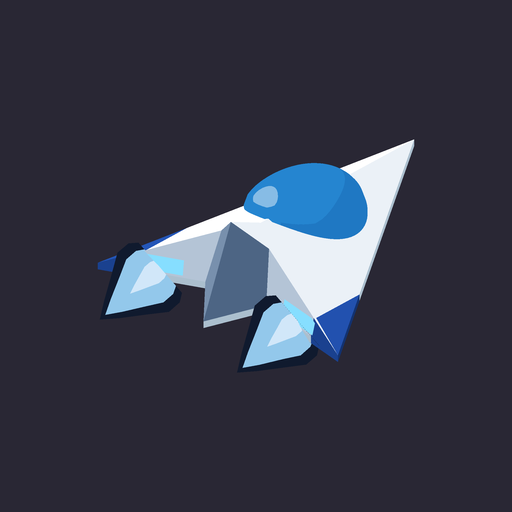
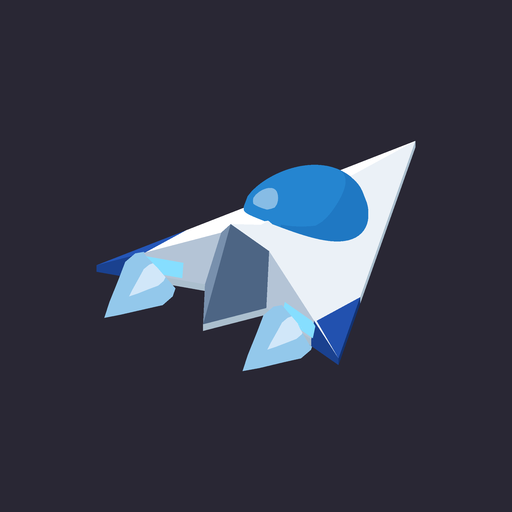
Draw Ada's jet halo under the hull and on the flight sprite only
Mark the halo layer underHull, so it draws before the hull and its keyline and
covers no hull, skirt or tail pixel, and maxDisplay 42, so it draws only on the
42 px flight sprite. The app icon drops the halo; the start screen ship, jump
poses and other large views follow the same flags. The contact sheets compose
the halo under the hull. The outer flame, core and restored lengths are
unchanged.

diff --git a/art/tools/ship-contact-sheet.ts b/art/tools/ship-contact-sheet.ts
@@ -8,6 +8,7 @@ import { filled, type RgbaImage, writePng } from "./paint.ts";
 import { JET_PROFILE, LIGHT_FIELD_JET_LEVELS, jetLayers } from "./ship-jet-layers.ts";
 import {
   jetLength,
+  layersAt,
   plumeColor,
   type PlumeLayer,
   type PlumeMouth,
@@ -173,7 +174,14 @@ class Cell {
 
 type Exhaust = { direction: "forward" | "reverse"; f: number; level: number };
 
-function plumes(jets: Jets, index: number, { f, level }: Exhaust, light: boolean): Fill[] {
+// The layers that draw on the 42 px flight sprite, those under the hull or the rest.
+function plumes(
+  jets: Jets,
+  index: number,
+  { f, level }: Exhaust,
+  light: boolean,
+  underHull: boolean,
+): Fill[] {
   const layers = light
     ? jetLayers(LIGHT_FIELD_JET_LEVELS[level - 1]!).map((layer, i) => ({
         ...jets.engineLevels[level - 1]!.layers[i]!,
@@ -181,16 +189,17 @@ function plumes(jets: Jets, index: number, { f, level }: Exhaust, light: boolean
       }))
     : jets.engineLevels[level - 1]!.layers;
   const length = jetLength(jets.length, f);
+  const drawn = layersAt(layers, 42).filter((layer) => Boolean(layer.underHull) === underHull);
   return jets.headings[index]!.mouths.flatMap((mouth) =>
-    layers.map((layer) => ({
+    drawn.map((layer) => ({
       color: plumeColor(layer.colors, f),
       loops: [plumePolygon(jets.profile ?? JET_PROFILE, mouth, layer, length) as Xy[]],
     })),
   );
 }
 
-// One sprite as the game composes it: reverse plumes under the hull, forward plumes over it
-// with the nearer hull restored, and the keyline round the hull only.
+// One sprite as the game composes it: reverse plumes and every halo under the hull, forward
+// flames over it with the nearer hull restored, and the keyline round the hull only.
 function sprite(
   size: number,
   scale: number,
@@ -206,11 +215,16 @@ function sprite(
     const mask = cell.mask(fill.loops);
     for (let i = 0; i < mask.length; i++) if (mask[i]) union[i] = 1;
   }
-  if (exhaust?.direction === "reverse") cell.fills(plumes(reverse, index, exhaust, field.light));
+  if (exhaust?.direction === "reverse") {
+    for (const under of [true, false])
+      cell.fills(plumes(reverse, index, exhaust, field.light, under));
+  }
+  if (exhaust?.direction === "forward")
+    cell.fills(plumes(forward, index, exhaust, field.light, true));
   cell.paint(field.keyline, cell.grown(union, KEYLINE));
   cell.fills(body);
   if (exhaust?.direction === "forward") {
-    cell.fills(plumes(forward, index, exhaust, field.light));
+    cell.fills(plumes(forward, index, exhaust, field.light, false));
     const nearer = cell.mask(
       forward.headings[index]!.mouths.flatMap((mouth) => mouth.occluders ?? []),
     );

diff --git a/art/tools/ship-check.ts b/art/tools/ship-check.ts
@@ -44,7 +44,13 @@ import {
 } from "./ship-model.ts";
 import { svgPaths } from "./ship-paths.ts";
 import { WARP_FRAME, WARP_HEADING, WARP_POSES } from "./ship-poses.ts";
-import { jetLength, plumePolygon, type PlumeMouth } from "./ship-plume.ts";
+import {
+  jetLength,
+  layersAt,
+  plumePolygon,
+  type PlumeLayer,
+  type PlumeMouth,
+} from "./ship-plume.ts";
 import { paintShip } from "./ship-raster.ts";
 
 const assets = new URL("../../public/art/", import.meta.url);
@@ -349,6 +355,26 @@ test("forward plumes root at the mouth centres with three layers and the hull re
   }
   // Head on, the hull hides both plume roots.
   assert(jets.headings[8]!.mouths.every((mouth) => mouth.occluders!.length > 0));
+});
+
+test("only the halo draws under the hull and on the 42 px flight sprite alone", () => {
+  for (const file of ["ship-jets.json", "ship-retro-jets.json"]) {
+    const jets = JSON.parse(readFileSync(new URL(file, assets), "utf8")) as {
+      engineLevels: { layers: (PlumeLayer & { name: string })[] }[];
+    };
+    for (const { layers } of jets.engineLevels) {
+      for (const layer of layers) {
+        const halo = layer.name === "halo";
+        assert.equal(layer.underHull, halo ? true : undefined, `${file} ${layer.name}`);
+        assert.equal(layer.maxDisplay, halo ? DISPLAY : undefined, `${file} ${layer.name}`);
+      }
+      assert.deepEqual(
+        layersAt(layers, 280).map(({ name }) => name),
+        ["outer", "core"],
+      );
+      assert.equal(layersAt(layers, DISPLAY).length, 3);
+    }
+  }
 });
 
 // Whether a point lies in a simple polygon, by crossings to its right.

diff --git a/art/tools/app-icon.ts b/art/tools/app-icon.ts
@@ -5,7 +5,7 @@ import { filled, fillPolygon, over, resize, rgba, writePng, type Xy } from "./pa
 import { SPACE_BG } from "./palette.ts";
 import { JET_LENGTH, JET_LEVELS, JET_PROFILE, jetLayers, plumeReach } from "./ship-jet-layers.ts";
 import { classic, drawn, forwardJetMouths, FRAME } from "./ship-model.ts";
-import { jetLength, plumeColor, plumePolygon } from "./ship-plume.ts";
+import { jetLength, layersAt, plumeColor, plumePolygon } from "./ship-plume.ts";
 import { paintShip } from "./ship-raster.ts";
 
 const output = fileURLToPath(new URL("../../public/art/app-icon/", import.meta.url));
@@ -20,8 +20,9 @@ const SAFE_ZONE = 0.8;
 const REGULAR_RADIUS = SIZE * 0.48;
 const background = rgba(`#${SPACE_BG}`);
 const hull = drawn(FRAME / 2, classic.paint, { yaw: HEADING });
-// Engine 1 plumes on the dark field, with the hull regions that draw over them.
-const layers = jetLayers(JET_LEVELS[0]);
+// Engine 1 plumes on the dark field, with the hull regions that draw over them. The icon is a
+// large still, so the flight sprite's halo does not draw.
+const layers = layersAt(jetLayers(JET_LEVELS[0]), SIZE);
 const mouths = forwardJetMouths(
   FRAME / 2,
   { yaw: HEADING },

diff --git a/art/tools/ship-plume.ts b/art/tools/ship-plume.ts
@@ -15,9 +15,19 @@ export interface PlumeLayer {
   readonly colors: readonly [string, string];
   /** Multiple of the jet length. */
   readonly length: number;
+  /** Largest logical display size of the ship frame at which the layer draws; absent is any. */
+  readonly maxDisplay?: number;
+  /** Draws under the hull, so the hull covers it everywhere; absent draws as the plume does. */
+  readonly underHull?: boolean;
   /** Half width in ship units. */
   readonly width: number;
 }
+
+/** The layers that draw on a ship frame shown `display` logical px wide. */
+export const layersAt = <L extends Pick<PlumeLayer, "maxDisplay">>(
+  layers: readonly L[],
+  display: number,
+): L[] => layers.filter(({ maxDisplay }) => maxDisplay === undefined || display <= maxDisplay);
 
 export interface JetCurve {
   readonly base: number;

diff --git a/art/tools/ship-jet-layers.ts b/art/tools/ship-jet-layers.ts
@@ -12,9 +12,11 @@ export const JET_PROFILE = [
   [1, 0],
 ] as const;
 // A dark halo the full mouth wide reaches 1.1 jet lengths and outlines the flame; the outer
-// flame reaches 1 and the core 0.55.
+// flame reaches 1 and the core 0.55. The halo draws under the hull (`underHull`), so it never
+// covers a hull or tail pixel, and only where the ship is drawn at most `maxDisplay` logical px
+// (the 42 px flight sprite), not on the start screen, app icon or jump poses.
 export const JET_SHAPE = {
-  halo: { width: 5.8, length: 1.1 },
+  halo: { width: 5.8, length: 1.1, underHull: true, maxDisplay: 42 },
   outer: { width: 4.2, length: 1 },
   core: { width: 1.6, length: 0.55 },
 } as const;

diff --git a/art/ship.md b/art/ship.md
@@ -20,7 +20,10 @@
 - Render 64 player headings from the one model and heading contract, with the
   documented frame, pivot and collision alignment. Enemy craft retain 16 headings.
 - Exhaust is a teardrop plume in three flat tones rooted on the engine mouths:
-  a dark halo round the flame and its core ([Speed jets](#speed-jets)). This
+  a dark halo round the flame and its core ([Speed jets](#speed-jets)). The
+  halo draws only on the 42 px flight sprite, never on the start screen, app
+  icon, jump poses or other large renders, and always under the hull, so it
+  covers no hull, skirt or tail pixel. This
   supersedes the three nested triangles and the rule that dropped the core at
   a display size of 42 px or less: the core draws at every size. Every title, warp, map and flight
   consumer draws the same plume from the same projected roots.
@@ -338,6 +341,13 @@ There are no animated jet frames.
   `anchor + axis * t * length * layer.length +- half * w * layer.width`.
 - `engineLevels` holds three layers per Engine level, drawn in order. Only the
   colours change with level; shape is the same on every paint.
+- The halo carries `underHull: true` and `maxDisplay: 42`. `underHull` draws
+  the layer before the hull and its keyline, forward and reverse, so the whole
+  hull silhouette (skirt and tail included) covers it. `maxDisplay` draws the
+  layer only where the ship frame's larger logical display side is 42 px or
+  less: the flight sprite, not the 280 px start screen ship, the warp poses or
+  the app icon. The outer flame and core carry neither and draw as before.
+  `layersAt` in [ship-plume.ts](tools/ship-plume.ts) applies `maxDisplay`.
 
 | Layer   | `width`, half width | `length` |
 | ------- | ------------------: | -------: |
@@ -379,8 +389,9 @@ There are no animated jet frames.
 - A plume takes its depth on the plane that holds its axis and faces the
   viewer. `occluders` are the outlines, in frame px, of every visible hull
   region in front of that plane inside the plume's widest and longest reach
-  (`plumeReach`: the halo's 5.8 by 33 units). Draw the complete plume above the hull,
-  then the hull again inside the occluders, taken from the loaded hull image.
+  (`plumeReach`: the halo's 5.8 by 33 units). Draw the halo under the hull,
+  then the hull, then the outer flame and core above it, then the hull again
+  inside the occluders, taken from the loaded hull image.
   The nearer plume draws over the tail and the farther one passes behind it.
 - `node art/tools/ship.ts --jets-only` updates only this file.
   [ship-plume.ts](tools/ship-plume.ts) is the pure polygon and colour helper

diff --git a/art/layout.md b/art/layout.md
@@ -1235,7 +1235,7 @@ at 844x390 the logical view is 779.08x360 and `x0` is 29.
 | Available rect   | 16 to 704, 16 to 344         | 43 to 677, 16 to 341          | 16 to 763.08, 16 to 344       | 43 to 736.08, 16 to 341       |
 | Field            | -120 to 840, -120 to 540     | -120 to 840, -120 to 540      | -91 to 869, -120 to 540       | -91 to 869, -120 to 540       |
 | Ship frame       | 238 to 518, -56 to 224       | 238 to 518, -56 to 224        | 267 to 547, -56 to 224        | 267 to 547, -56 to 224        |
-| Ship ink         | 225.7 to 484, 42 to 141      | 225.7 to 484, 42 to 141       | 254.7 to 513, 42 to 141       | 254.7 to 513, 42 to 141       |
+| Ship ink         | 232.8 to 484, 42 to 141      | 232.8 to 484, 42 to 141       | 261.8 to 513, 42 to 141       | 261.8 to 513, 42 to 141       |
 | Wordmark         | 225 to 495, 148 to 250       | 225 to 495, 148 to 250        | 254 to 524, 148 to 250        | 254 to 524, 148 to 250        |
 | Note line box    | Centre 360, 320 to 340       | Centre 360, 320 to 340        | Centre 389, 320 to 340        | Centre 389, 320 to 340        |
 | Menu             | 2.25 to 54.75, 2.25 to 54.75 | 33.25 to 85.75, 2.25 to 54.75 | 31.25 to 83.75, 2.25 to 54.75 | 33.25 to 85.75, 2.25 to 54.75 |
@@ -1245,7 +1245,7 @@ Clearances, smallest at 720x360 with insets:
 
 | Pair                              | Arithmetic      | Result                                    |
 | --------------------------------- | --------------- | ----------------------------------------- |
-| Menu to ship ink                  | `225.7 - 85.75` | 139.95                                    |
+| Menu to ship ink                  | `232.8 - 85.75` | 147.05                                    |
 | Menu to wordmark                  | `225 - 85.75`   | 139.25                                    |
 | Ship ink to Exit, shown           | `636.5 - 484`   | 152.5, beside the HUD row, never under it |
 | Wordmark to Exit, shown           | `636.5 - 495`   | 141.5 (170.5 at 844x390 with insets)      |

diff --git a/art/title-screen.md b/art/title-screen.md
@@ -42,13 +42,13 @@ The title ship is the in-game ship art, not a separate drawing.
 - Frame: the selected paint's `ship-52` (Classic `ship-52` before a paint is
   chosen), nose right with a slight climb, its 96 frame drawn 280 by 280.
 - Speed jets from `ship-jets.json` at `f = 0.8` (`title-screen.json`
-  `ship.jetSpeed`): a jet length of 21.36 ship units, the halo 23.5,
-  all three plume layers at the frame's scale (280 / 96), composed with the hull as
-  in flight. The lower plume draws over the tail; the upper one passes behind
+  `ship.jetSpeed`): a jet length of 21.36 ship units, the outer flame and
+  core at the frame's scale (280 / 96), composed with the hull as in flight.
+  The halo is a flight-sprite layer and does not draw here. The lower plume draws over the tail; the upper one passes behind
   it.
 - Held still: no bob, flicker or jet change (`ship.animated` is false).
 - Ink extents at the [layout](layout.md#start-screen) position: hull 281 to
-  484 by 42 to 141 in play-view px, jets reaching 225.7.
+  484 by 42 to 141 in play-view px, jets reaching 232.8.
 
 ## Field
 

diff --git a/art/app-icon.md b/art/app-icon.md
@@ -41,10 +41,10 @@ of other shapes.
 
 Rebuild with `node art/tools/app-icon.ts`. The exporter uses the Classic
 [ship model](ship.md) and Engine level 1 [plumes](ship.md#speed-jets) at speed
-fraction 0.6. The length curve gives 14.64 model units before projection; the
-halo reaches 16.1 of them. The
-plume occluders restore the painted hull where it is nearer than a plume.
-Every size reduces the one master, with all three plume layers.
+fraction 0.6. The length curve gives 14.64 model units before projection, the
+outer flame's reach. The plume occluders restore the painted hull where it is
+nearer than a plume. Every size reduces the one master, with the outer flame
+and core; the halo is a flight-sprite layer and does not draw on the icon.
 
 The command writes every PNG, the two-size ICO and the contact sheet. Raster
 exports sample the projected geometry at 4× the 512 px master before

diff --git a/art/quantum-jump.md b/art/quantum-jump.md
@@ -113,8 +113,8 @@ A step's `ship` names a `pose`, a `scale` and an optional `white`.
 - The jet renderer uses the selected main engine/field layers with the same
   plume profile as forward flight. Complete plumes render above the base hull;
   the hull is redrawn inside each mouth's `occluders`. The static cue's jet
-  length is 16 model units: the halo reaches 17.6, the outer flame 16 and the
-  core 8.8. The projected axis and
+  length is 16 model units: the outer flame reaches 16 and the core 8.8. The
+  halo is a flight-sprite layer and does not draw on the jump poses. The projected axis and
   half vectors already include the pose transform: do not normalize them or
   apply frame conversion or stretch again.
 - The runtime does not use a separate warp palette. Whitening and alpha follow
